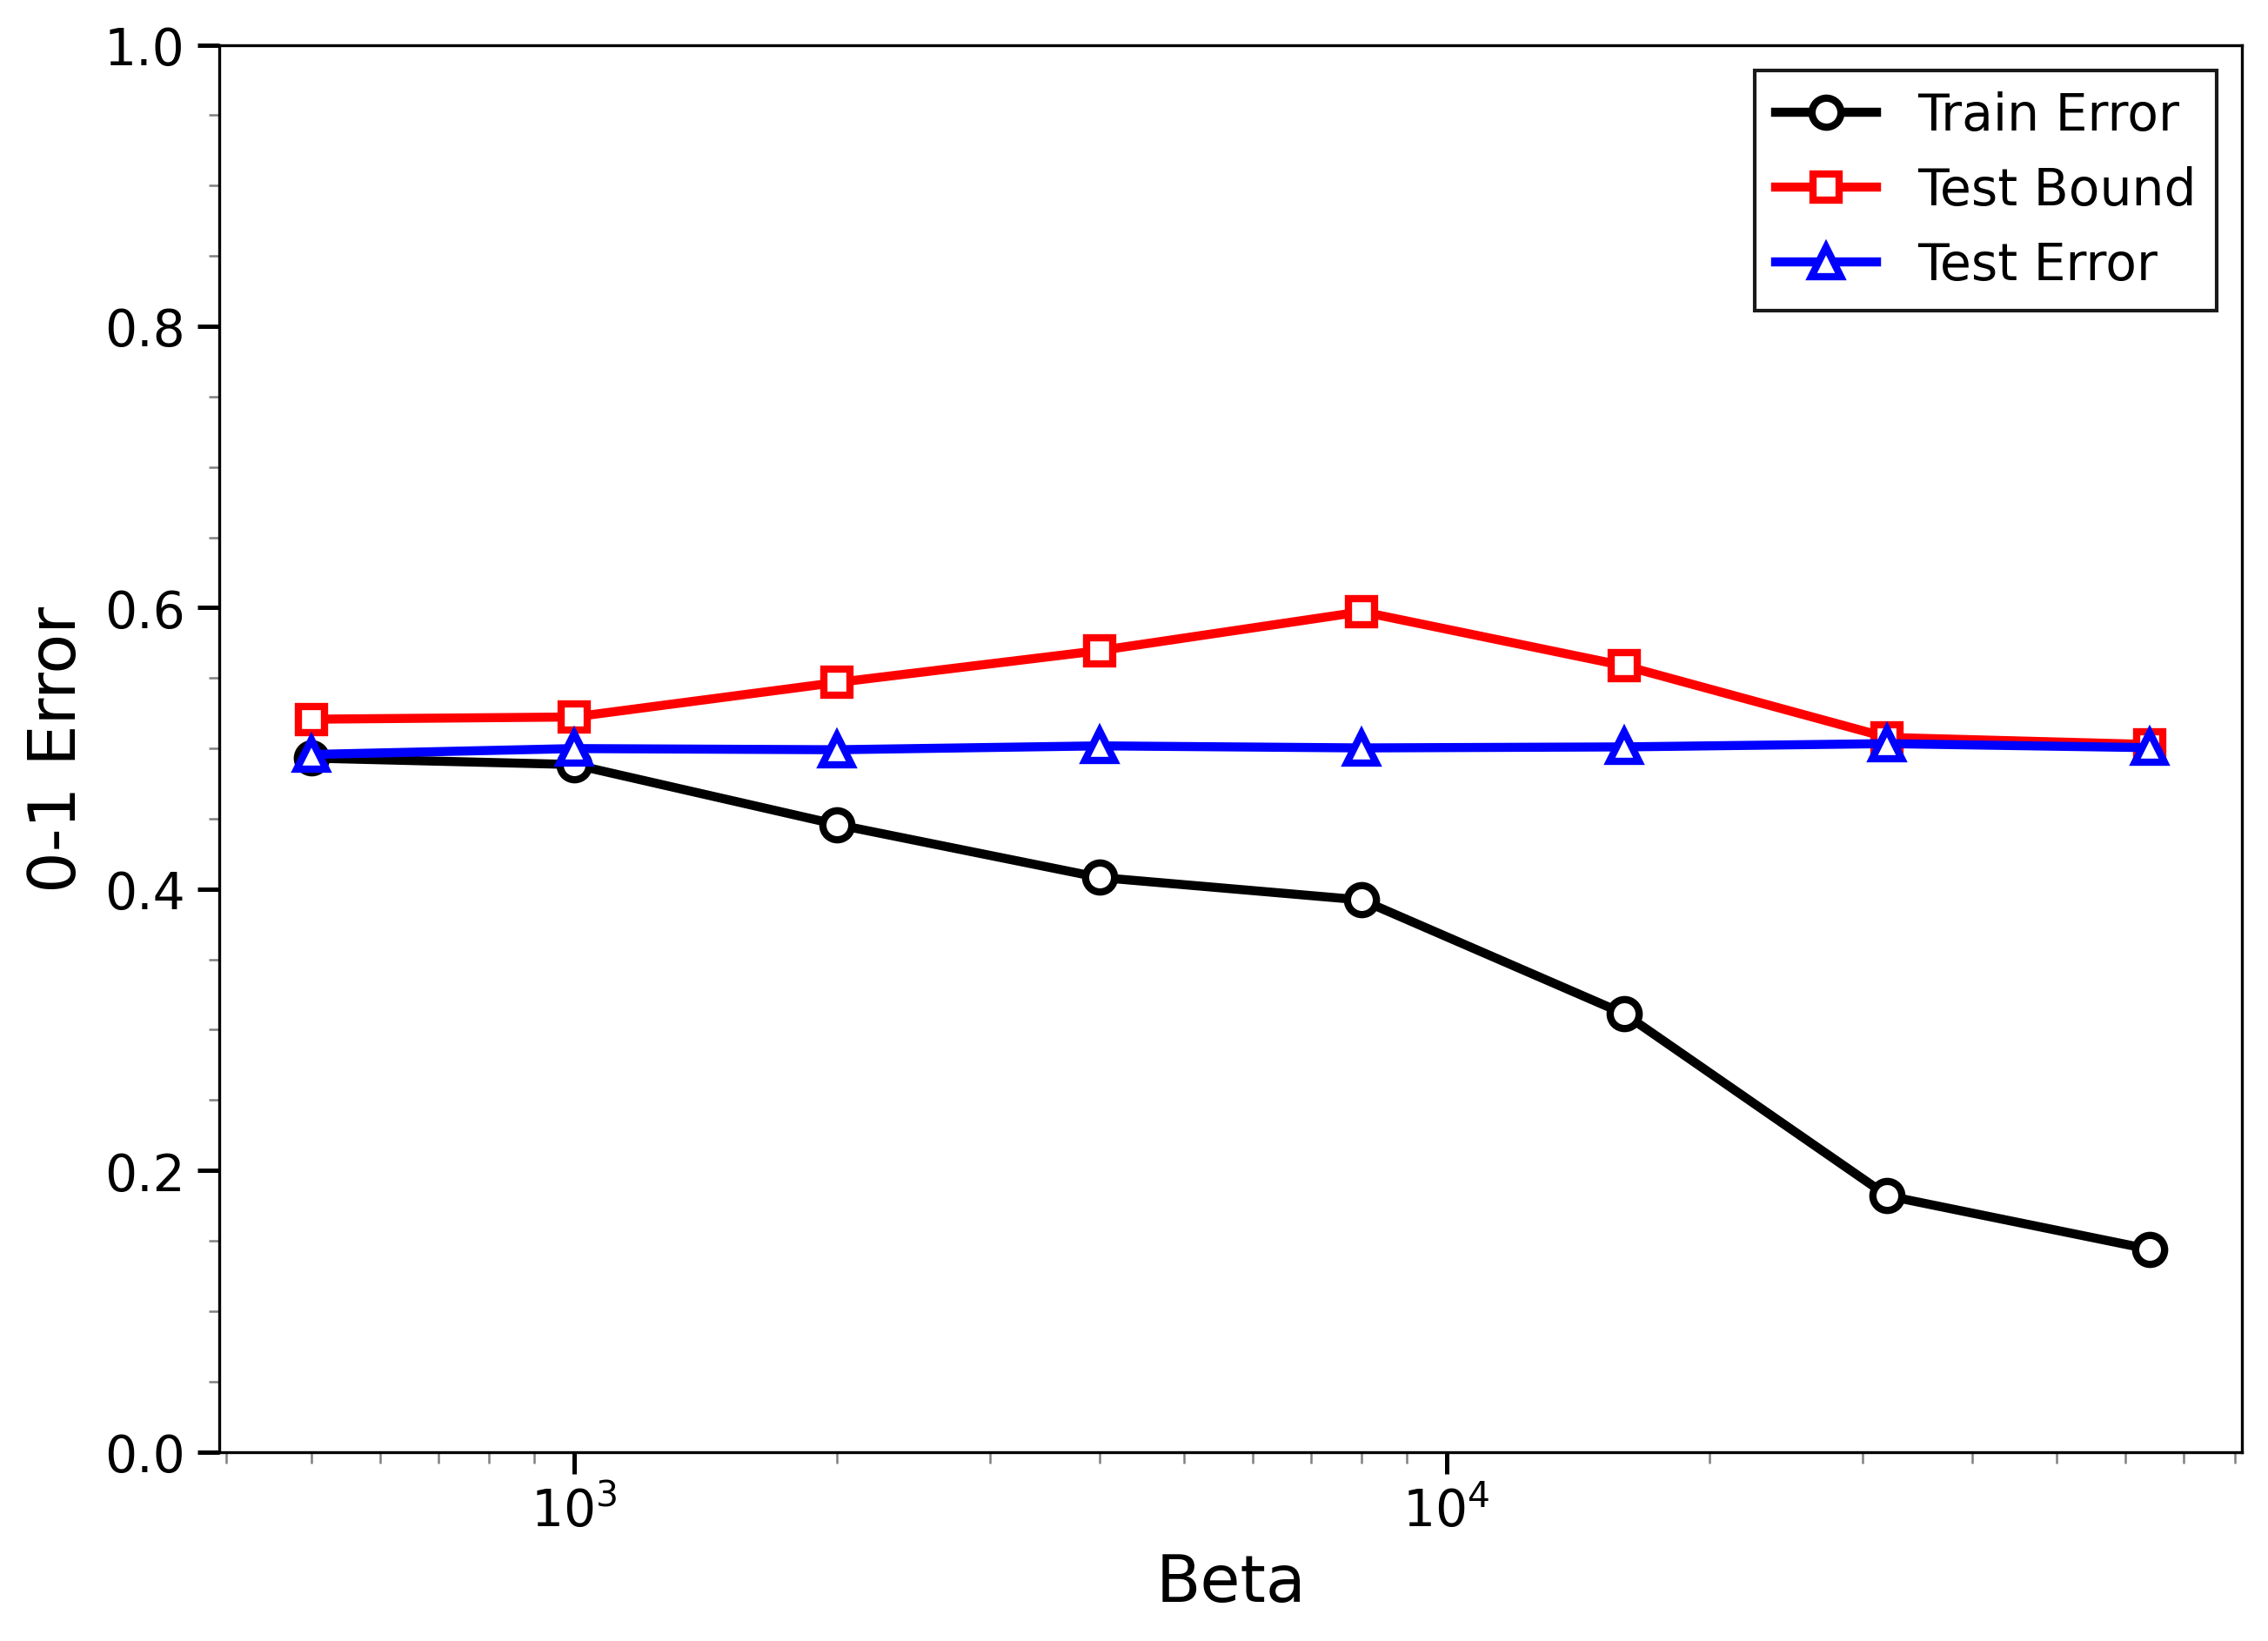
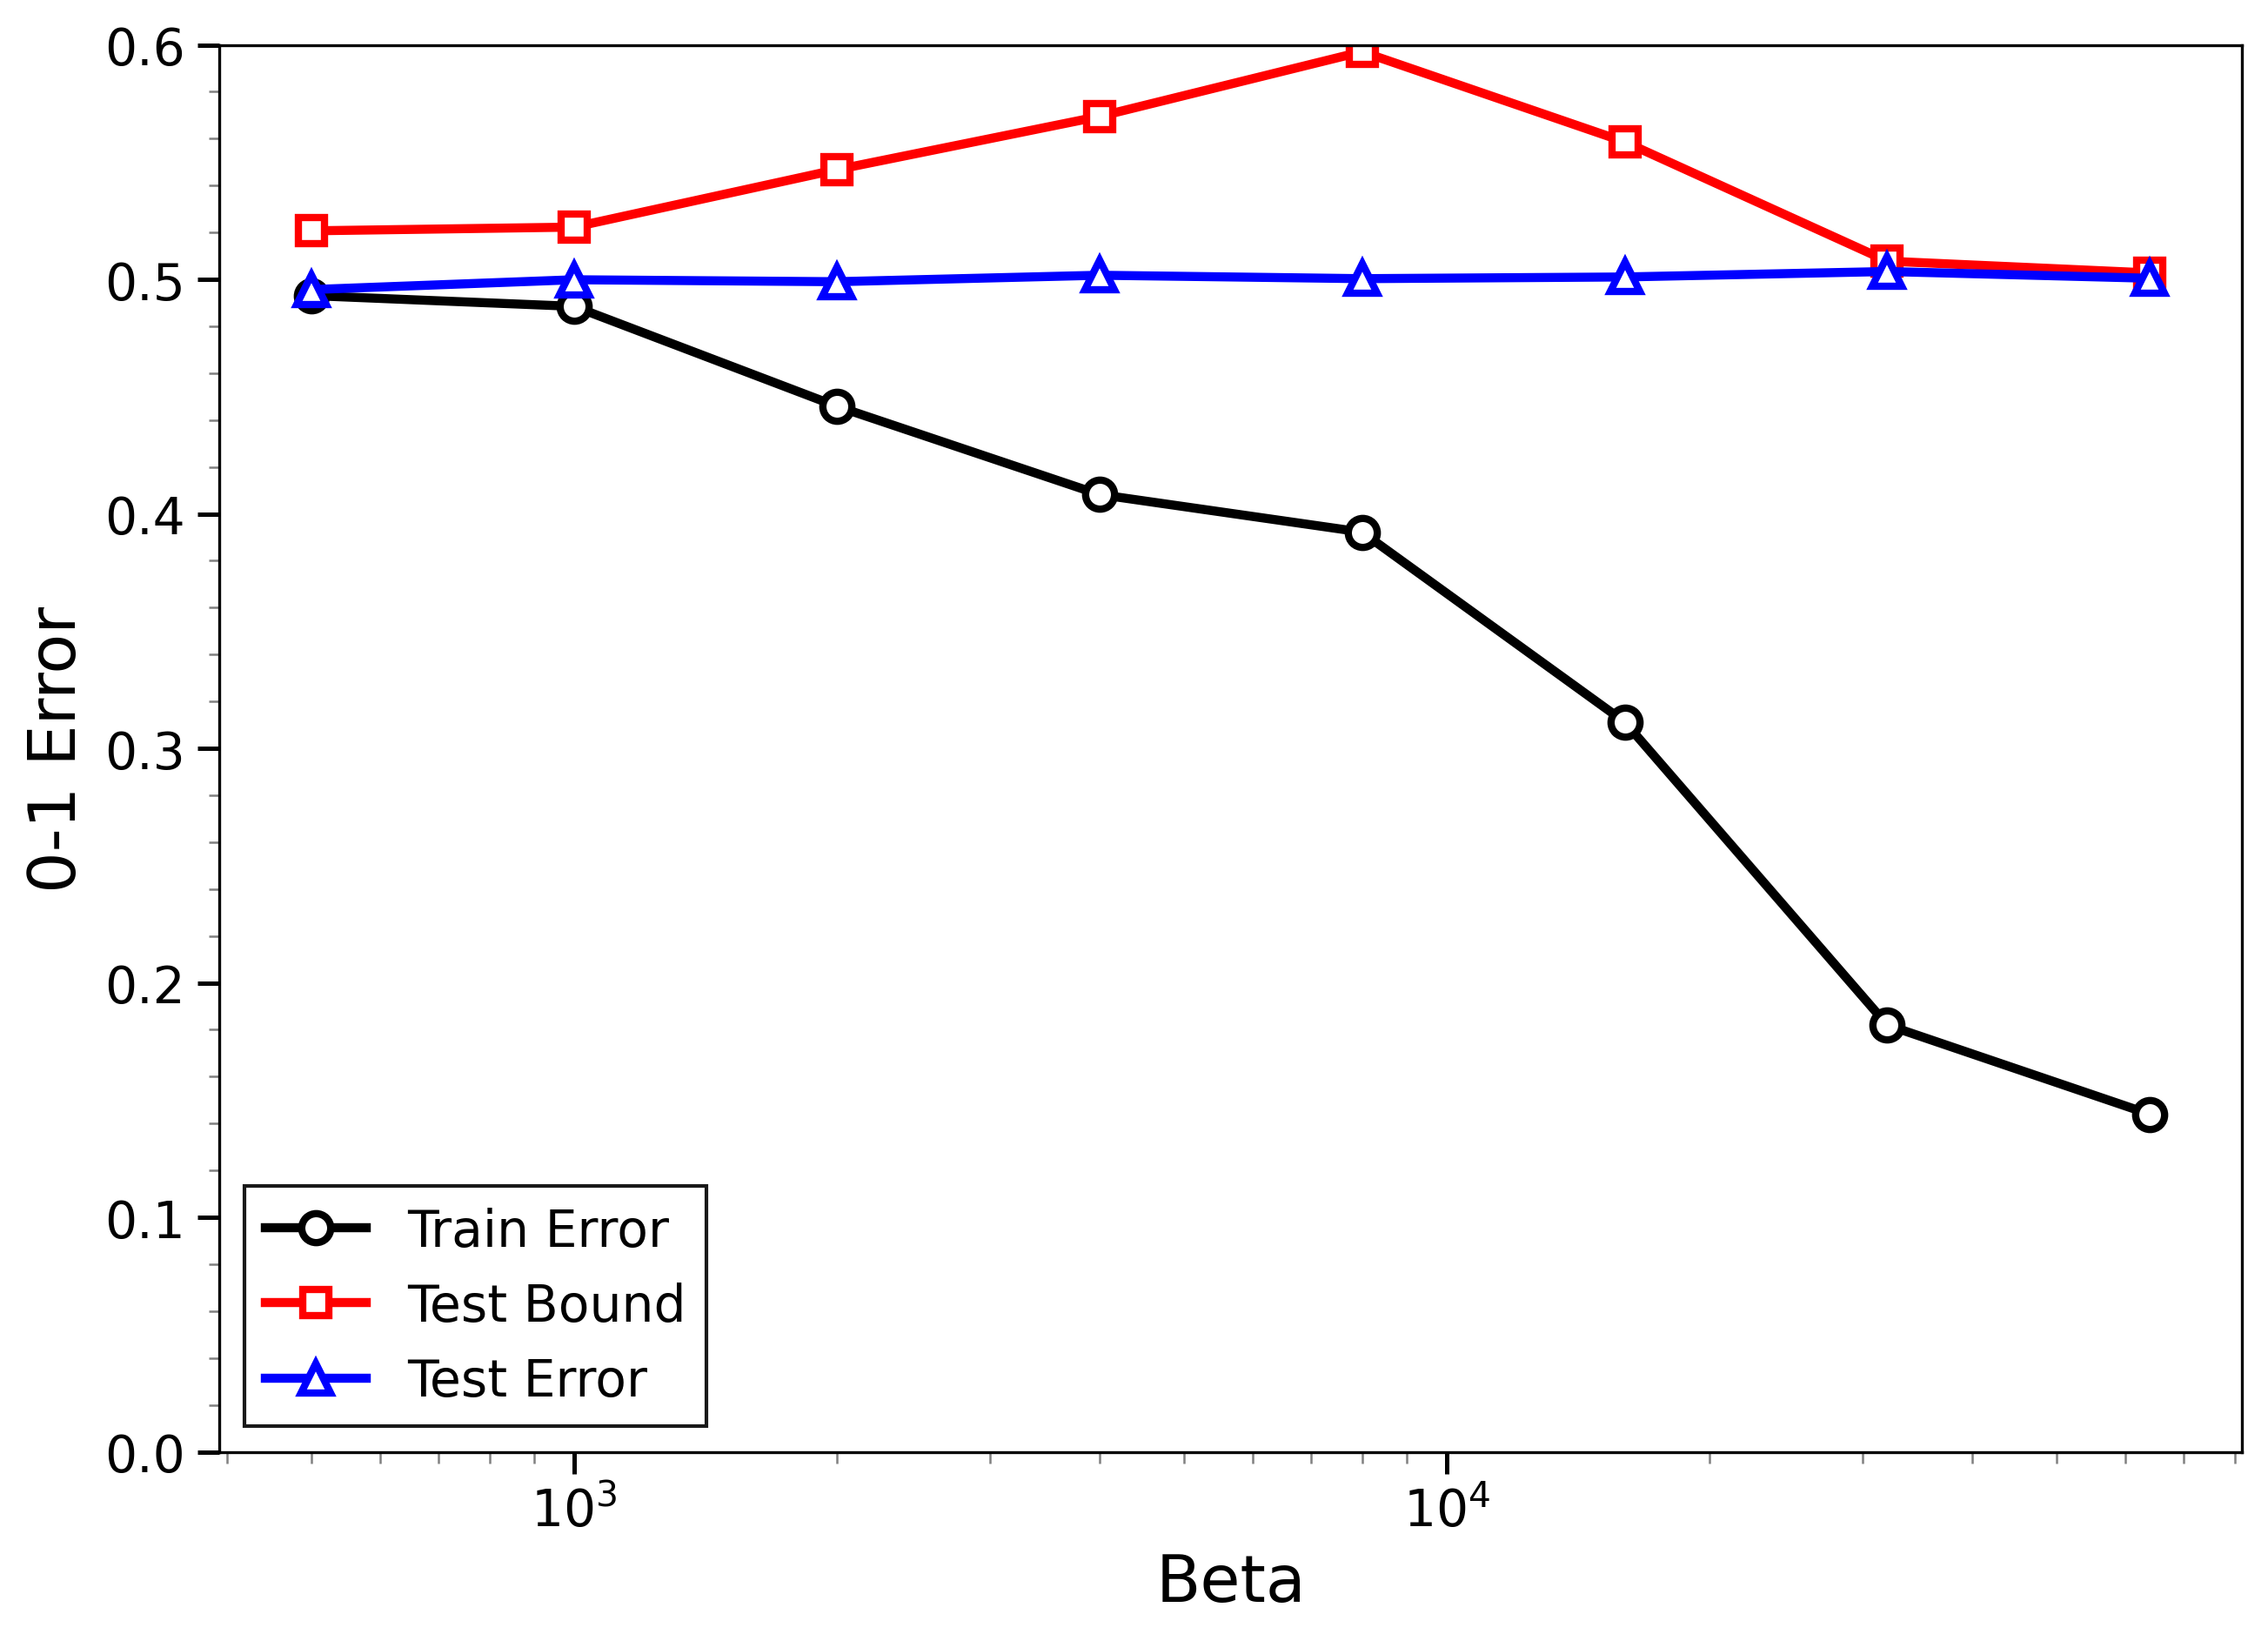
Update plot.py for calibration settings and enhance plot formatting

diff --git a/plot.py b/plot.py
@@ -230,7 +230,7 @@ def calibrate (betas, av_bcetrain, av_train01, samplesize, thresh=0.5):
 # CONTROL ------------------------------------------------
 
 display = 1     # 0 = BBCE, 1 = 01, 2 = area between true and random
-trueLabels = 0    # 0 = random, 1 = true labels
+trueLabels = 1    # 0 = random, 1 = true labels
 boundtype = 0      # 0 = kl 1 = Hoeffding 2 = Bernstein
 showkls = 0        # 0 = don't show, 1 = show
 calibration = 1    # 0 = no calibration 1 = do it
@@ -425,7 +425,7 @@ def show01 (showkls):
     # Enhanced formatting
     ax.set_xlabel('Beta', fontsize=18)
     ax.set_ylabel('0-1 Error', fontsize=18)
-    ax.set_ylim([0, 1])
+    ax.set_ylim([0, 0.6])
     
     # Better legend
     ax.legend(frameon=True, fancybox=False, shadow=False, loc='best', 
@@ -575,14 +575,14 @@ def showarea (av_bcetrain_true, av_bcetrain_random):
      plt.show()
 
  
-betas, bcetrain, bcetest, train01, test01, av_bcetrain_random, av_bcetest,\
-        av_train01_random, av_test01, samplesize = main( randomfilename )
-betas, bcetrain, bcetest, train01, test01, av_bcetrain_true, av_bcetest,\
-        av_train01_true, av_test01_true, samplesize = main( truefilename )
 
 if display == 1:
     show01 (showkls) 
 elif display == 0:
     showbce (showkls)
 elif display == 2:
+    betas, bcetrain, bcetest, train01, test01, av_bcetrain_random, av_bcetest,\
+            av_train01_random, av_test01, samplesize = main( randomfilename )
+    betas, bcetrain, bcetest, train01, test01, av_bcetrain_true, av_bcetest,\
+            av_train01_true, av_test01_true, samplesize = main( truefilename )
     showarea (av_bcetrain_true, av_bcetrain_random)